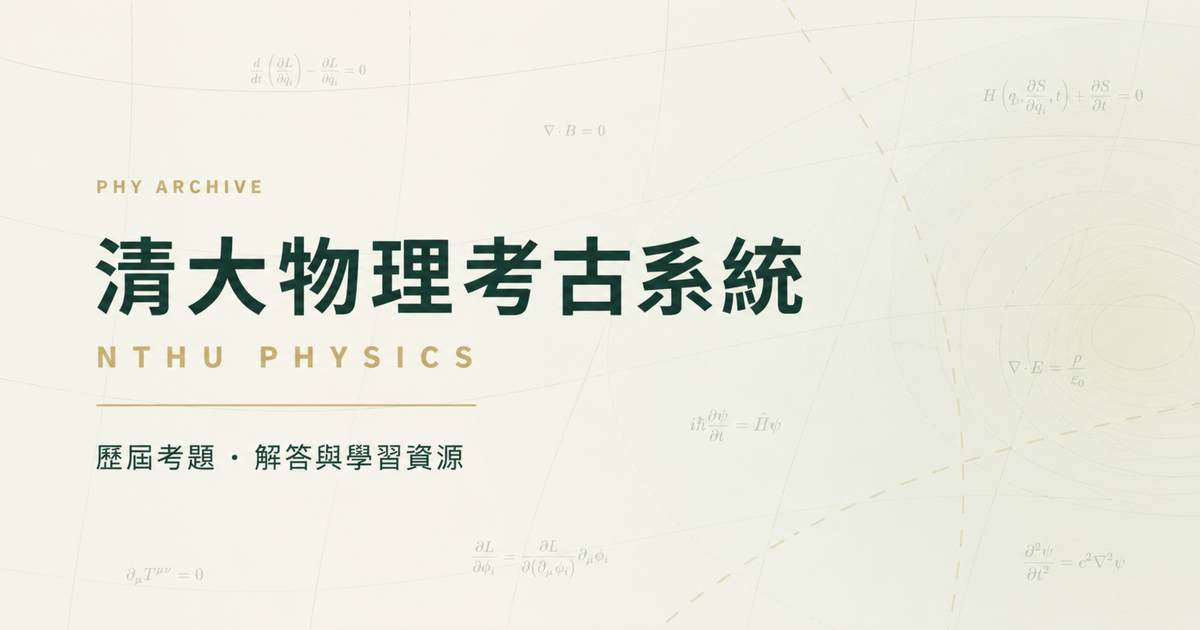
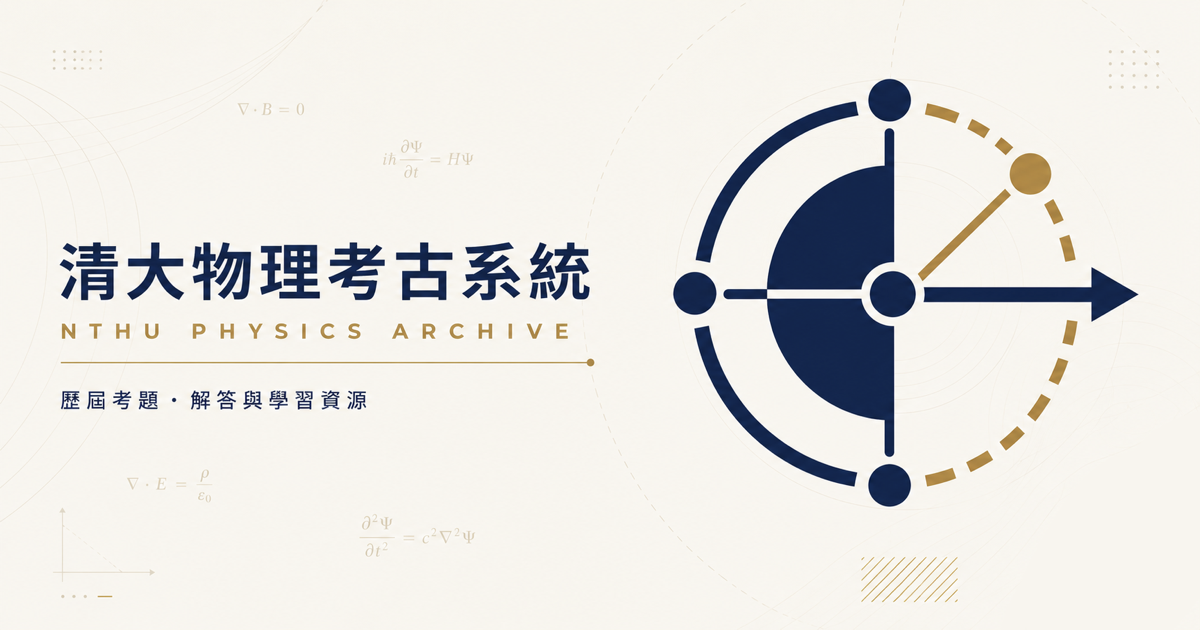
chore: refresh brand assets

diff --git a/frontend/src/components/Navbar.vue b/frontend/src/components/Navbar.vue
@@ -14,7 +14,7 @@
           />
           <button class="brand-lockup clickable-title" type="button" @click="handleTitleClick">
             <span class="brand-mark-frame">
-              <img src="/physics-symbol.jpeg" alt="清大物理考古系統" class="brand-mark" />
+              <img src="/physics-symbol.png" alt="清大物理考古系統" class="brand-mark" />
             </span>
             <span class="brand-wordmark">
               <span class="brand-title-main">清大物理考古系統</span>

diff --git a/README.md b/README.md
@@ -1,6 +1,6 @@
 <div align="center">
   <img
-    src="./frontend/public/physics-symbol.jpeg"
+    src="./frontend/public/physics-symbol.png"
     alt="清大物理考古系統標誌"
     width="180"
   />